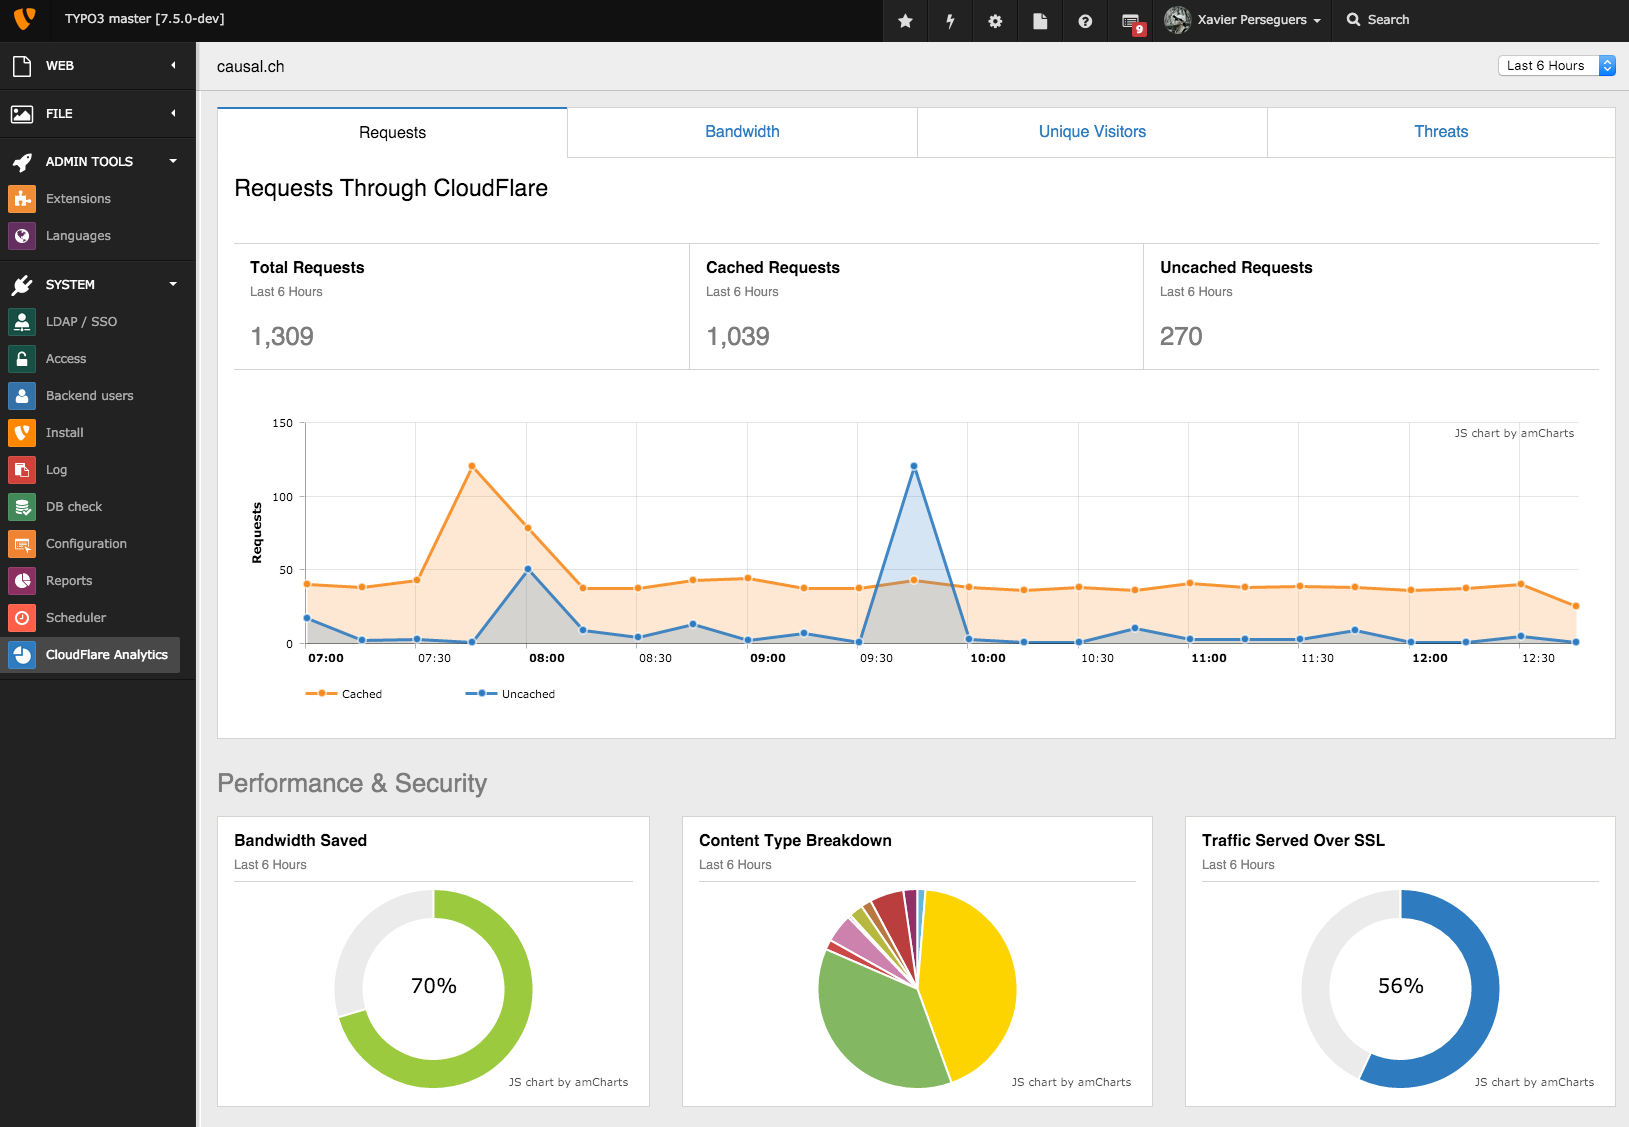
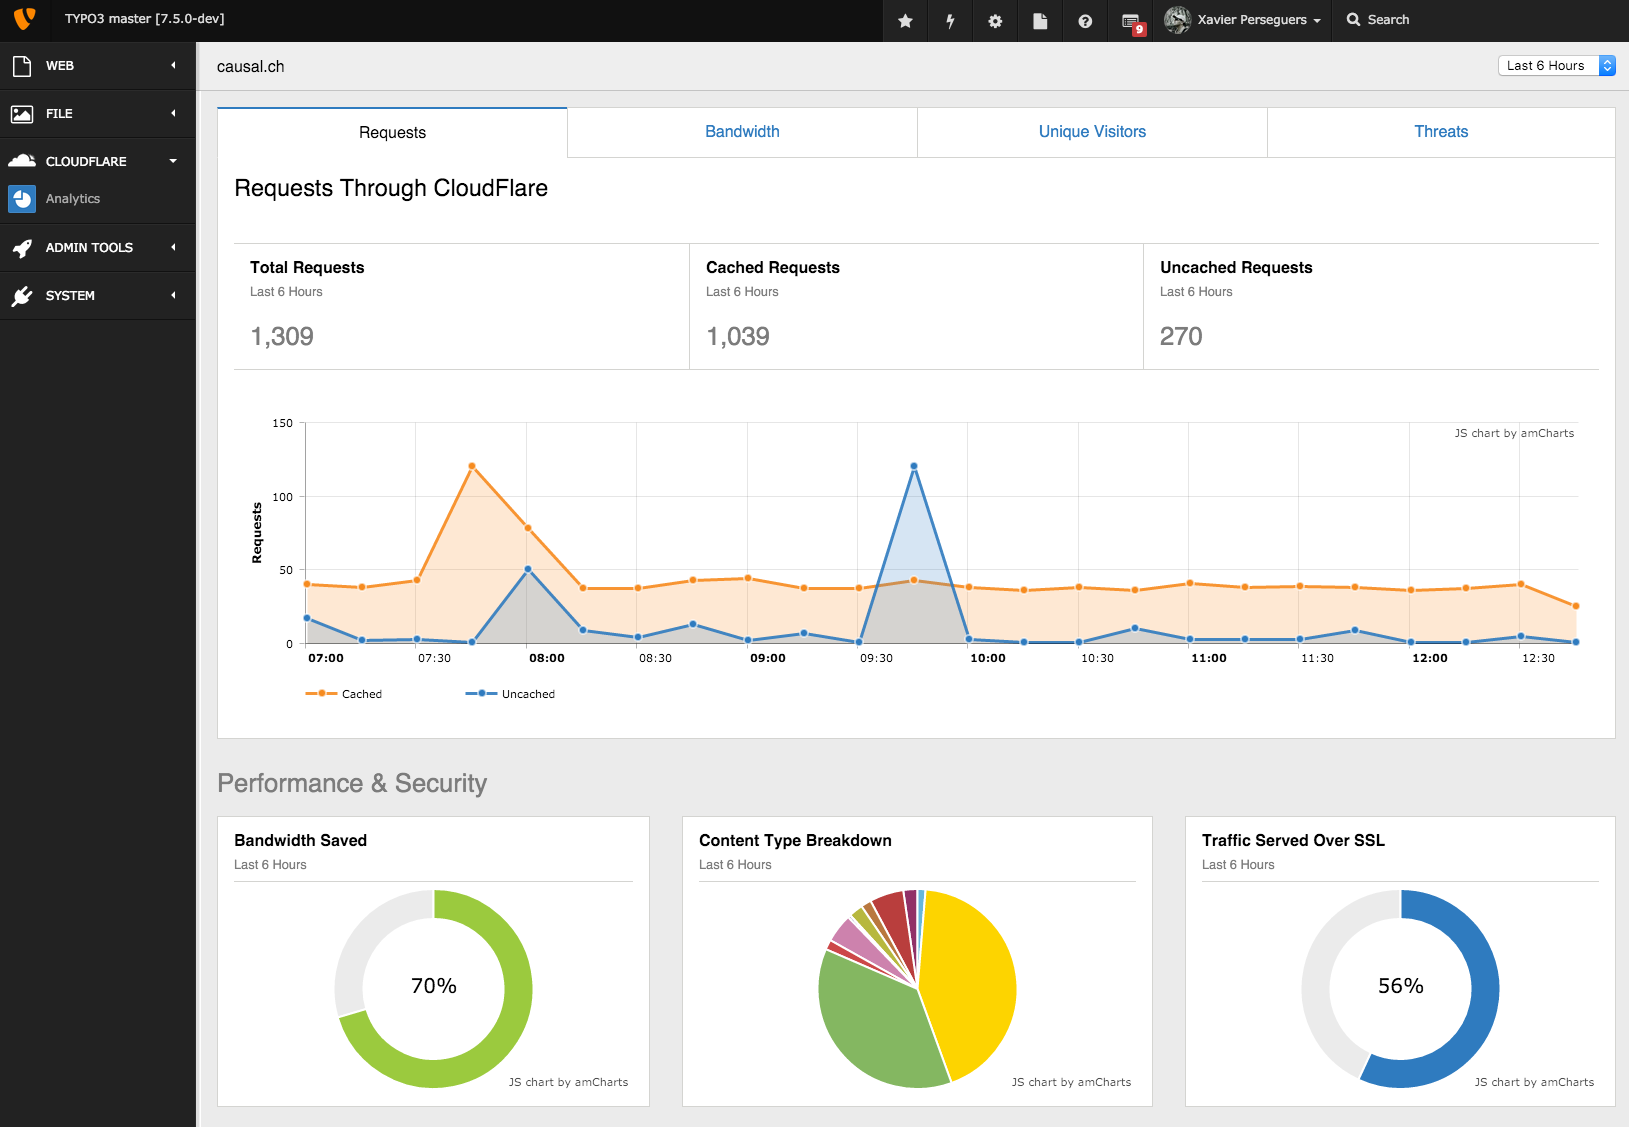
[TASK] Move analytics module into dedicated CloudFlare category

Changed region(s): [[0.0, 0.1242, 0.1228, 0.6211]]

diff --git a/ext_tables.php b/ext_tables.php
@@ -30,15 +30,28 @@ if (TYPO3_MODE === 'BE') {
         \TYPO3\CMS\Core\Utility\ExtensionManagementUtility::registerAjaxHandler('TxCloudflare::purge', 'Causal\\Cloudflare\\Backend\\ToolbarItems\\CloudflareToolbarItem->purge');
     }
 
+    // Create a module section "CloudFlare" before 'Admin Tools'
+    \TYPO3\CMS\Core\Utility\ExtensionManagementUtility::addModule('txcloudflare', '', '', \TYPO3\CMS\Core\Utility\ExtensionManagementUtility::extPath($_EXTKEY) . 'Modules/Cloudflare/');
+    $temp_TBE_MODULES = array();
+    foreach ($GLOBALS['TBE_MODULES'] as $key => $val) {
+        if ($key === 'tools') {
+            $temp_TBE_MODULES['txcloudflare'] = '';
+            $temp_TBE_MODULES[$key] = $val;
+        } else {
+            $temp_TBE_MODULES[$key] = $val;
+        }
+    }
+    $GLOBALS['TBE_MODULES'] = $temp_TBE_MODULES;
+
     if (version_compare(TYPO3_version, '6.99.99', '<=')) {
         $moduleIcon = 'ext_icon.png';
     } else {
-        $moduleIcon = 'Resources/Public/Icons/module-cloudflare.png';
+        $moduleIcon = 'Resources/Public/Icons/module-analytics.png';
     }
     \TYPO3\CMS\Extbase\Utility\ExtensionUtility::registerModule(
         'Causal.' . $_EXTKEY,
-        'system',
-        'cloudflare',
+        'txcloudflare',
+        'analytics',
         '',
         array(
             'Dashboard' => 'analytics, ajaxAnalytics',
@@ -46,7 +59,7 @@ if (TYPO3_MODE === 'BE') {
         array(
             'access' => 'user,group',
             'icon' => 'EXT:' . $_EXTKEY . '/' . $moduleIcon,
-            'labels' => 'LLL:EXT:' . $_EXTKEY . '/Resources/Private/Language/locallang_mod_cloudflare.xlf',
+            'labels' => 'LLL:EXT:' . $_EXTKEY . '/Resources/Private/Language/locallang_mod_analytics.xlf',
         )
     );
 }

diff --git a/Modules/Cloudflare/conf.php b/Modules/Cloudflare/conf.php
@@ -1,0 +1,12 @@
+<?php
+// DO NOT REMOVE OR CHANGE THESE 3 LINES:
+$MCONF['name'] = 'txcloudflare';
+$MCONF['access'] = 'user,group';
+$MCONF['script'] = '_DISPATCH';
+
+if (version_compare(TYPO3_version, '6.99.99', '<=')) {
+    $MLANG['default']['tabs_images']['tab'] = 'EXT:cloudflare/ext_icon.png';
+} else {
+    $MLANG['default']['tabs_images']['tab'] = 'EXT:cloudflare/Resources/Public/Icons/module-cloudflare.png';
+}
+$MLANG['default']['ll_ref'] = 'LLL:EXT:cloudflare/Resources/Private/Language/locallang_mod_cloudflare.xlf';
